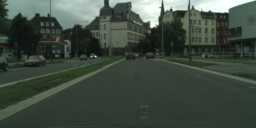
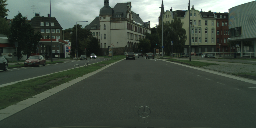
Add pylint as dev dependency. Make output structure of create_tiny_cityscapes.py match input structure. Switch from bilinear to nearest sampling to avoid interpolating between classes.

diff --git a/scripts/create_tiny_cityscapes.py b/scripts/create_tiny_cityscapes.py
@@ -1,32 +1,42 @@
 import os
-from tqdm import tqdm
-from scipy.misc import imread, imsave, imresize
 import argparse
 
+from PIL import Image
+from tqdm import tqdm
 
-def save_resized_file(output_folder, file_path, imsize=[128, 256]):
-    resized_image = imresize(imread(file_path), imsize)
+
+def save_resized_file(output_folder, file_path, imsize=[256, 128]):
+    img = Image.open(file_path)
+    resized_image = img.resize(imsize, resample=Image.NEAREST)
     new_path = os.path.join(output_folder,
                             file_path.split('/')[-1])
-    imsave(new_path, resized_image)
+    resized_image.save(new_path)
 
 
 def main(root_folder, output_folder):
     # get directories of the cities
+    if not os.path.exists(output_folder):
+        os.makedirs(output_folder)
+
     cities = os.listdir(root_folder)
     for city in cities:
         temp_files = os.listdir(os.path.join(root_folder, city))
+
+        output_city = os.path.join(output_folder, city)
+        if not os.path.exists(output_city):
+            os.makedirs(output_city)
+
         for file_ in tqdm(temp_files):
-            save_resized_file(output_folder, os.path.join(root_folder, city, file_))
+            save_resized_file(output_city, os.path.join(root_folder, city, file_))
 
 
 if __name__ == '__main__':
 
     parser = argparse.ArgumentParser()
-    parser.add_argument('-output_folder', type=str)
+    parser.add_argument('root_folder')
+    parser.add_argument('output_folder')
     #parser.add_argument('-height', type=int)
     #parser.add_argument('-width', type=int)
-    parser.add_argument('-root_folder', type=str)
     args = vars(parser.parse_args())
-    print(args)
+
     main(args['root_folder'], args['output_folder'])

diff --git a/multitask-learning/train.py b/multitask-learning/train.py
@@ -7,7 +7,6 @@ import cityscapes
 
 from PIL import Image
 
-
 class MultitaskLearner(nn.Module):
     def __init__(self, num_classes):
         super(MultitaskLearner, self).__init__()
@@ -29,7 +28,6 @@ if __name__ == '__main__':
     learner = MultitaskLearner(num_classes=30)
 
     for i, data in enumerate(loader):
-        for item in data:
-            print('Shape:', item.shape)
-            print('Result:', learner.forward(item.float()))
+        img, semantic_label, s = data
+        print('Result:', learner.forward(img.float()))
 
